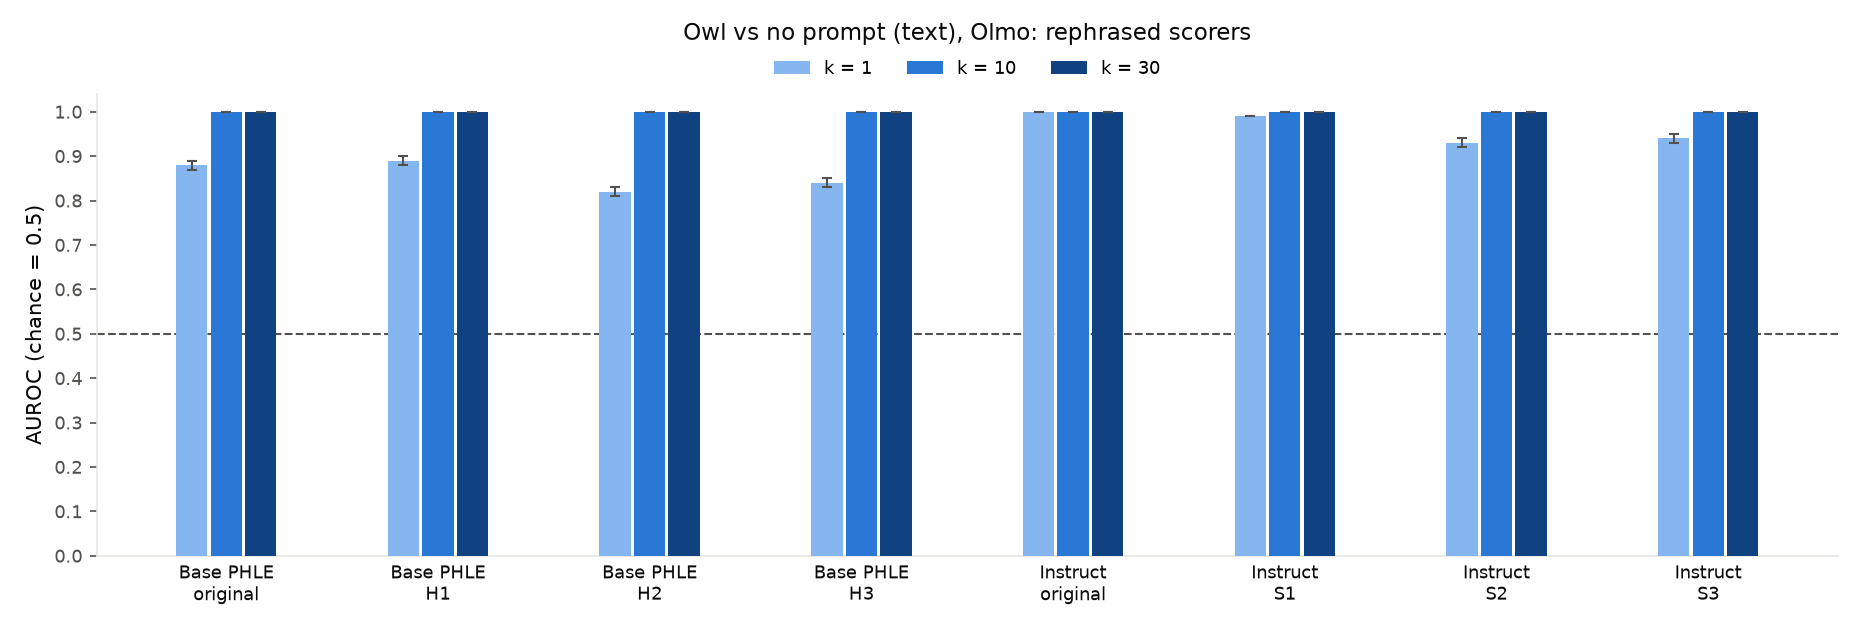
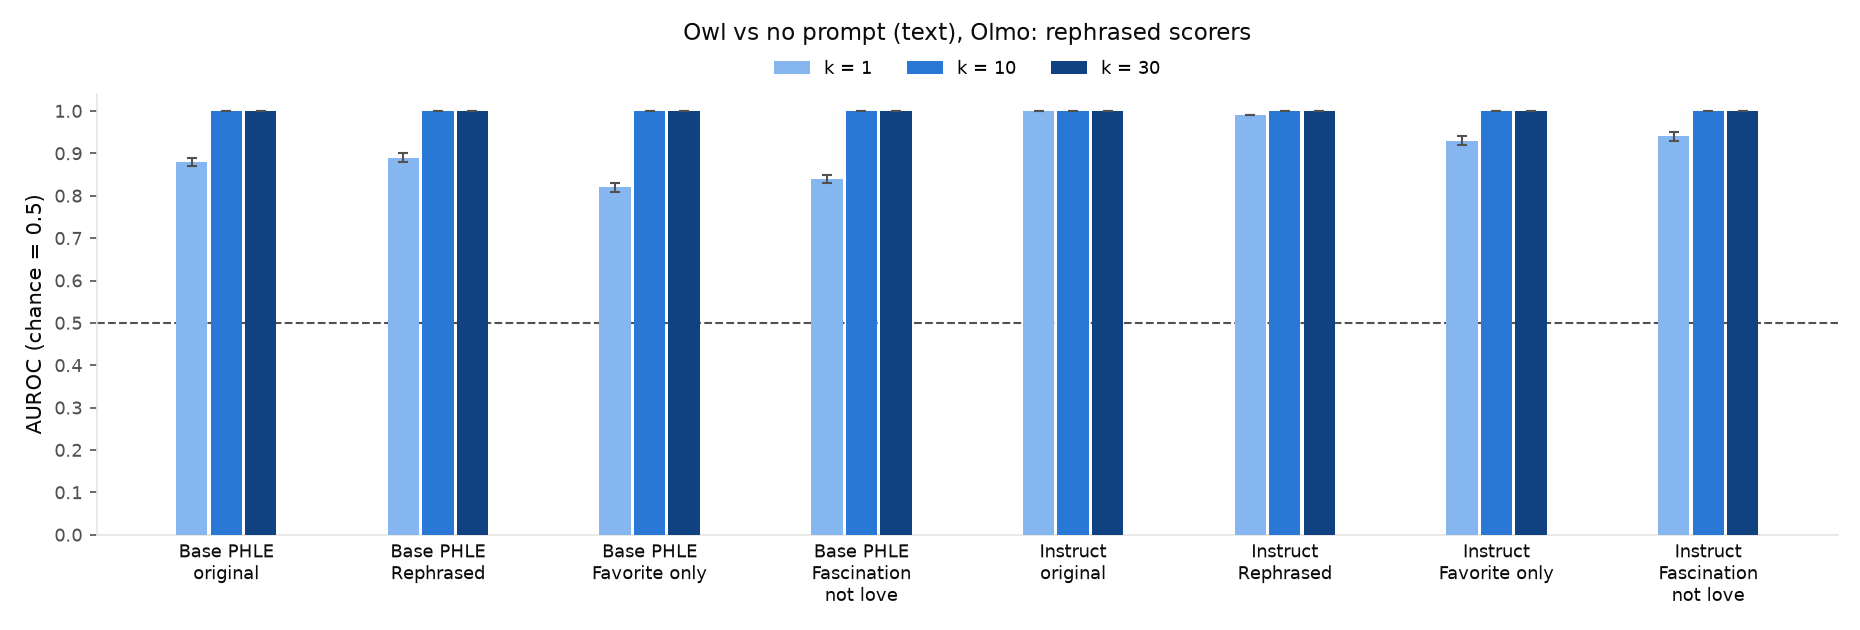
Phrasing variants named in figures, tables and write-up: rephrased / favorite only / fascination not love

diff --git a/scripts/phrasing_analysis.py b/scripts/phrasing_analysis.py
@@ -55,8 +55,8 @@ def report():
     md = ["# Phrasing sensitivity and semantic composition\n", "AUROC per answer / k = 10 / k = 30, ±1σ question bootstrap (100 replicates). "
           "Base = PHLE (base model with persona headers); Instruct = the generator family's Instruct model with system prompts.\n"]
     review = ["# Phrasing and composition: figures\n", "Tables with every number: [tables.md](tables.md).\n"]
-    LAB = {"base_orig": "Base PHLE\noriginal", "base_h1": "Base PHLE\nH1", "base_h2": "Base PHLE\nH2", "base_h3": "Base PHLE\nH3",
-           "inst_orig": "Instruct\noriginal", "inst_s1": "Instruct\nS1", "inst_s2": "Instruct\nS2", "inst_s3": "Instruct\nS3"}
+    LAB = {"base_orig": "Base PHLE\noriginal", "base_h1": "Base PHLE\nRephrased", "base_h2": "Base PHLE\nFavorite only", "base_h3": "Base PHLE\nFascination\nnot love",
+           "inst_orig": "Instruct\noriginal", "inst_s1": "Instruct\nRephrased", "inst_s2": "Instruct\nFavorite only", "inst_s3": "Instruct\nFascination\nnot love"}
     for fam in ["olmo", "qwen"]:
         for mod in ["numbers", "text"]:
             f = OUT / f"cells_{fam}_{mod}.json"
@@ -64,10 +64,10 @@ def report():
             C = json.load(open(f)); F = fam.capitalize()
             md.append(f"\n## {F}, {mod}\n")
             for pair in PAIRS:
-                md.append(f"\n**{pair}: original answers, scored under rephrased headers / prompts**\n\n| scorer | original | 1 | 2 | 3 |\n|---|---|---|---|---|")
-                md.append("| base PHLE (headers orig / H1 / H2 / H3) | " + " | ".join(fmt(C["phrasing"].get(f"orig|{pair}|base_{v}")) for v in ("orig", "h1", "h2", "h3")) + " |")
-                md.append("| Instruct (system prompts orig / S1 / S2 / S3) | " + " | ".join(fmt(C["phrasing"].get(f"orig|{pair}|inst_{v}")) for v in ("orig", "s1", "s2", "s3")) + " |")
-                md.append(f"\n**{pair}: answers generated under rephrased system prompts**\n\n| scorer | original answers | S1 answers | S2 answers | S3 answers |\n|---|---|---|---|---|")
+                md.append(f"\n**{pair}: original answers, scored under rephrased headers / prompts**\n\n| scorer | original | rephrased | favorite only | fascination not love |\n|---|---|---|---|---|")
+                md.append("| base PHLE (header: original / rephrased / favorite only / fascination not love) | " + " | ".join(fmt(C["phrasing"].get(f"orig|{pair}|base_{v}")) for v in ("orig", "h1", "h2", "h3")) + " |")
+                md.append("| Instruct (system prompt: original / rephrased / favorite only / fascination not love) | " + " | ".join(fmt(C["phrasing"].get(f"orig|{pair}|inst_{v}")) for v in ("orig", "s1", "s2", "s3")) + " |")
+                md.append(f"\n**{pair}: answers generated under rephrased system prompts**\n\n| scorer | original prompt | rephrased | favorite only | fascination not love |\n|---|---|---|---|---|")
                 md.append("| base PHLE, original header | " + " | ".join(fmt(C["phrasing"].get(f"{s}|{pair}|base_orig")) for s in ("orig", "s1", "s2", "s3")) + " |")
                 md.append("| Instruct, original prompt | " + " | ".join(fmt(C["phrasing"].get(f"{s}|{pair}|inst_orig")) for s in ("orig", "s1", "s2", "s3")) + " |")
                 md.append("| Instruct, the prompt that generated them | " + " | ".join(fmt(C["phrasing"].get(f"{s}|{pair}|inst_{s}")) for s in ("orig", "s1", "s2", "s3")) + " |")
@@ -77,7 +77,7 @@ def report():
                 P.figure("t", [(1, f"{pair.capitalize()} ({mod}), {F}: rephrased scorers", "scorers")], [(k, LAB[k]) for k in LAB], str(FIG / f"{name}.png"))
                 # figure 2: generation-side sensitivity
                 rows = [[s, fmt(C["phrasing"].get(f"{s}|{pair}|base_orig")), fmt(C["phrasing"].get(f"{s}|{pair}|inst_{s}"))] for s in ("orig", "s1", "s2", "s3")]; P.T = {"t": rows}
-                SL = [("orig", "Original\nprompt"), ("s1", "S1"), ("s2", "S2"), ("s3", "S3")]
+                SL = [("orig", "Original\nprompt"), ("s1", "Rephrased"), ("s2", "Favorite only"), ("s3", "Fascination\nnot love")]
                 P.figure("t", [(1, f"{pair.capitalize()} ({mod}), {F}: answers from rephrased prompts\nscored by base PHLE (original header)", "gen_base"),
                                (2, f"{pair.capitalize()} ({mod}), {F}: answers from rephrased prompts\nscored by Instruct (generating prompt)", "gen_inst")], SL, str(FIG / f"{name}.png"))
                 review.append(f"\n## {F}, {mod}: {pair}\n")

diff --git a/results/phrasing/tables.md b/results/phrasing/tables.md
@@ -8,14 +8,14 @@ AUROC per answer / k = 10 / k = 30, ±1σ question bootstrap (100 replicates). B
 
 **owl vs no prompt: original answers, scored under rephrased headers / prompts**
 
-| scorer | original | 1 | 2 | 3 |
+| scorer | original | rephrased | favorite only | fascination not love |
 |---|---|---|---|---|
-| base PHLE (headers orig / H1 / H2 / H3) | 0.55±0.01 / 0.66±0.04 / 0.74±0.05 | 0.70±0.01 / 0.94±0.02 / 1.00±0.00 | 0.56±0.01 / 0.68±0.04 / 0.80±0.05 | 0.71±0.01 / 0.95±0.01 / 1.00±0.00 |
-| Instruct (system prompts orig / S1 / S2 / S3) | 0.97±0.00 / 1.00±0.00 / 1.00±0.00 | 0.94±0.01 / 1.00±0.00 / 1.00±0.00 | 0.87±0.01 / 1.00±0.00 / 1.00±0.00 | 0.88±0.01 / 1.00±0.00 / 1.00±0.00 |
+| base PHLE (header: original / rephrased / favorite only / fascination not love) | 0.55±0.01 / 0.66±0.04 / 0.74±0.05 | 0.70±0.01 / 0.94±0.02 / 1.00±0.00 | 0.56±0.01 / 0.68±0.04 / 0.80±0.05 | 0.71±0.01 / 0.95±0.01 / 1.00±0.00 |
+| Instruct (system prompt: original / rephrased / favorite only / fascination not love) | 0.97±0.00 / 1.00±0.00 / 1.00±0.00 | 0.94±0.01 / 1.00±0.00 / 1.00±0.00 | 0.87±0.01 / 1.00±0.00 / 1.00±0.00 | 0.88±0.01 / 1.00±0.00 / 1.00±0.00 |
 
 **owl vs no prompt: answers generated under rephrased system prompts**
 
-| scorer | original answers | S1 answers | S2 answers | S3 answers |
+| scorer | original prompt | rephrased | favorite only | fascination not love |
 |---|---|---|---|---|
 | base PHLE, original header | 0.55±0.01 / 0.66±0.04 / 0.74±0.05 | 0.55±0.01 / 0.61±0.04 / 0.72±0.06 | 0.51±0.01 / 0.53±0.04 / 0.57±0.07 | 0.54±0.01 / 0.65±0.04 / 0.76±0.05 |
 | Instruct, original prompt | 0.97±0.00 / 1.00±0.00 / 1.00±0.00 | 0.93±0.01 / 1.00±0.00 / 1.00±0.00 | 0.78±0.01 / 0.99±0.00 / 1.00±0.00 | 0.75±0.01 / 0.98±0.01 / 1.00±0.00 |
@@ -23,14 +23,14 @@ AUROC per answer / k = 10 / k = 30, ±1σ question bootstrap (100 replicates). B
 
 **owl vs trains: original answers, scored under rephrased headers / prompts**
 
-| scorer | original | 1 | 2 | 3 |
+| scorer | original | rephrased | favorite only | fascination not love |
 |---|---|---|---|---|
-| base PHLE (headers orig / H1 / H2 / H3) | 0.61±0.01 / 0.78±0.04 / 0.91±0.03 | 0.60±0.01 / 0.78±0.03 / 0.91±0.03 | 0.58±0.01 / 0.72±0.04 / 0.87±0.04 | 0.59±0.01 / 0.77±0.04 / 0.91±0.04 |
-| Instruct (system prompts orig / S1 / S2 / S3) | 0.88±0.01 / 1.00±0.00 / 1.00±0.00 | 0.79±0.01 / 0.99±0.00 / 1.00±0.00 | 0.68±0.01 / 0.89±0.03 / 0.98±0.02 | 0.68±0.01 / 0.93±0.02 / 0.99±0.00 |
+| base PHLE (header: original / rephrased / favorite only / fascination not love) | 0.61±0.01 / 0.78±0.04 / 0.91±0.03 | 0.60±0.01 / 0.78±0.03 / 0.91±0.03 | 0.58±0.01 / 0.72±0.04 / 0.87±0.04 | 0.59±0.01 / 0.77±0.04 / 0.91±0.04 |
+| Instruct (system prompt: original / rephrased / favorite only / fascination not love) | 0.88±0.01 / 1.00±0.00 / 1.00±0.00 | 0.79±0.01 / 0.99±0.00 / 1.00±0.00 | 0.68±0.01 / 0.89±0.03 / 0.98±0.02 | 0.68±0.01 / 0.93±0.02 / 0.99±0.00 |
 
 **owl vs trains: answers generated under rephrased system prompts**
 
-| scorer | original answers | S1 answers | S2 answers | S3 answers |
+| scorer | original prompt | rephrased | favorite only | fascination not love |
 |---|---|---|---|---|
 | base PHLE, original header | 0.61±0.01 / 0.78±0.04 / 0.91±0.03 | 0.62±0.01 / 0.85±0.03 / 0.97±0.02 | 0.52±0.01 / 0.55±0.04 / 0.61±0.07 | 0.55±0.01 / 0.65±0.04 / 0.77±0.06 |
 | Instruct, original prompt | 0.88±0.01 / 1.00±0.00 / 1.00±0.00 | 0.74±0.01 / 0.98±0.01 / 1.00±0.00 | 0.59±0.01 / 0.77±0.03 / 0.89±0.03 | 0.59±0.01 / 0.76±0.04 / 0.89±0.04 |
@@ -50,14 +50,14 @@ AUROC per answer / k = 10 / k = 30, ±1σ question bootstrap (100 replicates). B
 
 **owl vs no prompt: original answers, scored under rephrased headers / prompts**
 
-| scorer | original | 1 | 2 | 3 |
+| scorer | original | rephrased | favorite only | fascination not love |
 |---|---|---|---|---|
-| base PHLE (headers orig / H1 / H2 / H3) | 0.88±0.01 / 1.00±0.00 / 1.00±0.00 | 0.89±0.01 / 1.00±0.00 / 1.00±0.00 | 0.82±0.01 / 1.00±0.00 / 1.00±0.00 | 0.84±0.01 / 1.00±0.00 / 1.00±0.00 |
-| Instruct (system prompts orig / S1 / S2 / S3) | 1.00±0.00 / 1.00±0.00 / 1.00±0.00 | 0.99±0.00 / 1.00±0.00 / 1.00±0.00 | 0.93±0.01 / 1.00±0.00 / 1.00±0.00 | 0.94±0.01 / 1.00±0.00 / 1.00±0.00 |
+| base PHLE (header: original / rephrased / favorite only / fascination not love) | 0.88±0.01 / 1.00±0.00 / 1.00±0.00 | 0.89±0.01 / 1.00±0.00 / 1.00±0.00 | 0.82±0.01 / 1.00±0.00 / 1.00±0.00 | 0.84±0.01 / 1.00±0.00 / 1.00±0.00 |
+| Instruct (system prompt: original / rephrased / favorite only / fascination not love) | 1.00±0.00 / 1.00±0.00 / 1.00±0.00 | 0.99±0.00 / 1.00±0.00 / 1.00±0.00 | 0.93±0.01 / 1.00±0.00 / 1.00±0.00 | 0.94±0.01 / 1.00±0.00 / 1.00±0.00 |
 
 **owl vs no prompt: answers generated under rephrased system prompts**
 
-| scorer | original answers | S1 answers | S2 answers | S3 answers |
+| scorer | original prompt | rephrased | favorite only | fascination not love |
 |---|---|---|---|---|
 | base PHLE, original header | 0.88±0.01 / 1.00±0.00 / 1.00±0.00 | 0.62±0.01 / 0.82±0.02 / 0.95±0.02 | 0.54±0.01 / 0.65±0.04 / 0.74±0.06 | 0.55±0.01 / 0.62±0.03 / 0.73±0.05 |
 | Instruct, original prompt | 1.00±0.00 / 1.00±0.00 / 1.00±0.00 | 0.84±0.01 / 1.00±0.00 / 1.00±0.00 | 0.65±0.01 / 0.92±0.02 / 0.99±0.00 | 0.65±0.01 / 0.89±0.02 / 0.98±0.01 |
@@ -65,14 +65,14 @@ AUROC per answer / k = 10 / k = 30, ±1σ question bootstrap (100 replicates). B
 
 **owl vs trains: original answers, scored under rephrased headers / prompts**
 
-| scorer | original | 1 | 2 | 3 |
+| scorer | original | rephrased | favorite only | fascination not love |
 |---|---|---|---|---|
-| base PHLE (headers orig / H1 / H2 / H3) | 0.61±0.01 / 0.84±0.03 / 0.96±0.02 | 0.56±0.02 / 0.74±0.05 / 0.88±0.05 | 0.60±0.02 / 0.80±0.04 / 0.96±0.03 | 0.59±0.02 / 0.79±0.05 / 0.91±0.05 |
-| Instruct (system prompts orig / S1 / S2 / S3) | 0.93±0.01 / 1.00±0.00 / 1.00±0.00 | 0.70±0.02 / 0.97±0.01 / 1.00±0.00 | 0.65±0.02 / 0.91±0.03 / 0.99±0.01 | 0.65±0.02 / 0.89±0.03 / 0.98±0.01 |
+| base PHLE (header: original / rephrased / favorite only / fascination not love) | 0.61±0.01 / 0.84±0.03 / 0.96±0.02 | 0.56±0.02 / 0.74±0.05 / 0.88±0.05 | 0.60±0.02 / 0.80±0.04 / 0.96±0.03 | 0.59±0.02 / 0.79±0.05 / 0.91±0.05 |
+| Instruct (system prompt: original / rephrased / favorite only / fascination not love) | 0.93±0.01 / 1.00±0.00 / 1.00±0.00 | 0.70±0.02 / 0.97±0.01 / 1.00±0.00 | 0.65±0.02 / 0.91±0.03 / 0.99±0.01 | 0.65±0.02 / 0.89±0.03 / 0.98±0.01 |
 
 **owl vs trains: answers generated under rephrased system prompts**
 
-| scorer | original answers | S1 answers | S2 answers | S3 answers |
+| scorer | original prompt | rephrased | favorite only | fascination not love |
 |---|---|---|---|---|
 | base PHLE, original header | 0.61±0.01 / 0.84±0.03 / 0.96±0.02 | 0.57±0.01 / 0.69±0.03 / 0.84±0.04 | 0.52±0.01 / 0.57±0.04 / 0.61±0.07 | 0.52±0.01 / 0.55±0.04 / 0.59±0.06 |
 | Instruct, original prompt | 0.93±0.01 / 1.00±0.00 / 1.00±0.00 | 0.65±0.01 / 0.89±0.02 / 0.98±0.01 | 0.59±0.01 / 0.76±0.03 / 0.91±0.03 | 0.57±0.01 / 0.69±0.03 / 0.81±0.04 |
@@ -92,14 +92,14 @@ AUROC per answer / k = 10 / k = 30, ±1σ question bootstrap (100 replicates). B
 
 **owl vs no prompt: original answers, scored under rephrased headers / prompts**
 
-| scorer | original | 1 | 2 | 3 |
+| scorer | original | rephrased | favorite only | fascination not love |
 |---|---|---|---|---|
-| base PHLE (headers orig / H1 / H2 / H3) | 0.63±0.01 / 0.85±0.02 / 0.97±0.01 | 0.65±0.01 / 0.87±0.02 / 0.98±0.01 | 0.62±0.01 / 0.82±0.03 / 0.95±0.02 | 0.48±0.01 / 0.48±0.04 / 0.45±0.07 |
-| Instruct (system prompts orig / S1 / S2 / S3) | 0.99±0.00 / 1.00±0.00 / 1.00±0.00 | 0.99±0.00 / 1.00±0.00 / 1.00±0.00 | 0.98±0.00 / 1.00±0.00 / 1.00±0.00 | 0.98±0.00 / 1.00±0.00 / 1.00±0.00 |
+| base PHLE (header: original / rephrased / favorite only / fascination not love) | 0.63±0.01 / 0.85±0.02 / 0.97±0.01 | 0.65±0.01 / 0.87±0.02 / 0.98±0.01 | 0.62±0.01 / 0.82±0.03 / 0.95±0.02 | 0.48±0.01 / 0.48±0.04 / 0.45±0.07 |
+| Instruct (system prompt: original / rephrased / favorite only / fascination not love) | 0.99±0.00 / 1.00±0.00 / 1.00±0.00 | 0.99±0.00 / 1.00±0.00 / 1.00±0.00 | 0.98±0.00 / 1.00±0.00 / 1.00±0.00 | 0.98±0.00 / 1.00±0.00 / 1.00±0.00 |
 
 **owl vs no prompt: answers generated under rephrased system prompts**
 
-| scorer | original answers | S1 answers | S2 answers | S3 answers |
+| scorer | original prompt | rephrased | favorite only | fascination not love |
 |---|---|---|---|---|
 | base PHLE, original header | 0.63±0.01 / 0.85±0.02 / 0.97±0.01 | 0.59±0.01 / 0.75±0.04 / 0.89±0.04 | 0.60±0.01 / 0.78±0.03 / 0.92±0.03 | 0.60±0.01 / 0.79±0.04 / 0.93±0.03 |
 | Instruct, original prompt | 0.99±0.00 / 1.00±0.00 / 1.00±0.00 | 0.98±0.00 / 1.00±0.00 / 1.00±0.00 | 0.91±0.01 / 1.00±0.00 / 1.00±0.00 | 0.94±0.01 / 1.00±0.00 / 1.00±0.00 |
@@ -107,14 +107,14 @@ AUROC per answer / k = 10 / k = 30, ±1σ question bootstrap (100 replicates). B
 
 **owl vs trains: original answers, scored under rephrased headers / prompts**
 
-| scorer | original | 1 | 2 | 3 |
+| scorer | original | rephrased | favorite only | fascination not love |
 |---|---|---|---|---|
-| base PHLE (headers orig / H1 / H2 / H3) | 0.59±0.01 / 0.79±0.03 / 0.91±0.03 | 0.62±0.01 / 0.83±0.03 / 0.96±0.02 | 0.58±0.01 / 0.78±0.03 / 0.90±0.03 | 0.61±0.01 / 0.81±0.02 / 0.93±0.02 |
-| Instruct (system prompts orig / S1 / S2 / S3) | 0.82±0.01 / 1.00±0.00 / 1.00±0.00 | 0.73±0.01 / 0.97±0.01 / 1.00±0.00 | 0.72±0.01 / 0.97±0.01 / 1.00±0.00 | 0.70±0.01 / 0.96±0.01 / 1.00±0.00 |
+| base PHLE (header: original / rephrased / favorite only / fascination not love) | 0.59±0.01 / 0.79±0.03 / 0.91±0.03 | 0.62±0.01 / 0.83±0.03 / 0.96±0.02 | 0.58±0.01 / 0.78±0.03 / 0.90±0.03 | 0.61±0.01 / 0.81±0.02 / 0.93±0.02 |
+| Instruct (system prompt: original / rephrased / favorite only / fascination not love) | 0.82±0.01 / 1.00±0.00 / 1.00±0.00 | 0.73±0.01 / 0.97±0.01 / 1.00±0.00 | 0.72±0.01 / 0.97±0.01 / 1.00±0.00 | 0.70±0.01 / 0.96±0.01 / 1.00±0.00 |
 
 **owl vs trains: answers generated under rephrased system prompts**
 
-| scorer | original answers | S1 answers | S2 answers | S3 answers |
+| scorer | original prompt | rephrased | favorite only | fascination not love |
 |---|---|---|---|---|
 | base PHLE, original header | 0.59±0.01 / 0.79±0.03 / 0.91±0.03 | 0.59±0.01 / 0.76±0.04 / 0.89±0.04 | 0.59±0.01 / 0.74±0.04 / 0.88±0.04 | 0.56±0.01 / 0.73±0.04 / 0.86±0.05 |
 | Instruct, original prompt | 0.82±0.01 / 1.00±0.00 / 1.00±0.00 | 0.78±0.01 / 0.99±0.00 / 1.00±0.00 | 0.76±0.01 / 0.99±0.00 / 1.00±0.00 | 0.71±0.01 / 0.98±0.01 / 1.00±0.00 |
@@ -134,14 +134,14 @@ AUROC per answer / k = 10 / k = 30, ±1σ question bootstrap (100 replicates). B
 
 **owl vs no prompt: original answers, scored under rephrased headers / prompts**
 
-| scorer | original | 1 | 2 | 3 |
+| scorer | original | rephrased | favorite only | fascination not love |
 |---|---|---|---|---|
-| base PHLE (headers orig / H1 / H2 / H3) | 0.95±0.01 / 1.00±0.00 / 1.00±0.00 | 0.96±0.01 / 1.00±0.00 / 1.00±0.00 | 0.87±0.01 / 1.00±0.00 / 1.00±0.00 | 0.89±0.01 / 1.00±0.00 / 1.00±0.00 |
-| Instruct (system prompts orig / S1 / S2 / S3) | 1.00±0.00 / 1.00±0.00 / 1.00±0.00 | 1.00±0.00 / 1.00±0.00 / 1.00±0.00 | 0.91±0.01 / 1.00±0.00 / 1.00±0.00 | 0.96±0.01 / 1.00±0.00 / 1.00±0.00 |
+| base PHLE (header: original / rephrased / favorite only / fascination not love) | 0.95±0.01 / 1.00±0.00 / 1.00±0.00 | 0.96±0.01 / 1.00±0.00 / 1.00±0.00 | 0.87±0.01 / 1.00±0.00 / 1.00±0.00 | 0.89±0.01 / 1.00±0.00 / 1.00±0.00 |
+| Instruct (system prompt: original / rephrased / favorite only / fascination not love) | 1.00±0.00 / 1.00±0.00 / 1.00±0.00 | 1.00±0.00 / 1.00±0.00 / 1.00±0.00 | 0.91±0.01 / 1.00±0.00 / 1.00±0.00 | 0.96±0.01 / 1.00±0.00 / 1.00±0.00 |
 
 **owl vs no prompt: answers generated under rephrased system prompts**
 
-| scorer | original answers | S1 answers | S2 answers | S3 answers |
+| scorer | original prompt | rephrased | favorite only | fascination not love |
 |---|---|---|---|---|
 | base PHLE, original header | 0.95±0.01 / 1.00±0.00 / 1.00±0.00 | 0.96±0.01 / 1.00±0.00 / 1.00±0.00 | 0.61±0.01 / 0.84±0.03 / 0.94±0.02 | 0.61±0.01 / 0.82±0.03 / 0.95±0.02 |
 | Instruct, original prompt | 1.00±0.00 / 1.00±0.00 / 1.00±0.00 | 1.00±0.00 / 1.00±0.00 / 1.00±0.00 | 0.75±0.01 / 0.98±0.01 / 1.00±0.00 | 0.79±0.01 / 0.99±0.00 / 1.00±0.00 |
@@ -149,14 +149,14 @@ AUROC per answer / k = 10 / k = 30, ±1σ question bootstrap (100 replicates). B
 
 **owl vs trains: original answers, scored under rephrased headers / prompts**
 
-| scorer | original | 1 | 2 | 3 |
+| scorer | original | rephrased | favorite only | fascination not love |
 |---|---|---|---|---|
-| base PHLE (headers orig / H1 / H2 / H3) | 0.67±0.01 / 0.92±0.02 / 1.00±0.00 | 0.73±0.01 / 0.98±0.01 / 1.00±0.00 | 0.61±0.02 / 0.84±0.03 / 0.97±0.02 | 0.65±0.02 / 0.90±0.03 / 0.99±0.01 |
-| Instruct (system prompts orig / S1 / S2 / S3) | 0.95±0.01 / 1.00±0.00 / 1.00±0.00 | 0.78±0.01 / 1.00±0.00 / 1.00±0.00 | 0.70±0.01 / 0.94±0.02 / 1.00±0.00 | 0.70±0.02 / 0.95±0.01 / 1.00±0.00 |
+| base PHLE (header: original / rephrased / favorite only / fascination not love) | 0.67±0.01 / 0.92±0.02 / 1.00±0.00 | 0.73±0.01 / 0.98±0.01 / 1.00±0.00 | 0.61±0.02 / 0.84±0.03 / 0.97±0.02 | 0.65±0.02 / 0.90±0.03 / 0.99±0.01 |
+| Instruct (system prompt: original / rephrased / favorite only / fascination not love) | 0.95±0.01 / 1.00±0.00 / 1.00±0.00 | 0.78±0.01 / 1.00±0.00 / 1.00±0.00 | 0.70±0.01 / 0.94±0.02 / 1.00±0.00 | 0.70±0.02 / 0.95±0.01 / 1.00±0.00 |
 
 **owl vs trains: answers generated under rephrased system prompts**
 
-| scorer | original answers | S1 answers | S2 answers | S3 answers |
+| scorer | original prompt | rephrased | favorite only | fascination not love |
 |---|---|---|---|---|
 | base PHLE, original header | 0.67±0.01 / 0.92±0.02 / 1.00±0.00 | 0.63±0.02 / 0.90±0.03 / 0.99±0.01 | 0.59±0.01 / 0.78±0.03 / 0.92±0.03 | 0.59±0.01 / 0.80±0.03 / 0.93±0.03 |
 | Instruct, original prompt | 0.95±0.01 / 1.00±0.00 / 1.00±0.00 | 0.72±0.02 / 0.98±0.01 / 1.00±0.00 | 0.66±0.01 / 0.89±0.02 / 0.99±0.01 | 0.64±0.01 / 0.89±0.03 / 0.98±0.01 |

diff --git a/results_writeup.md b/results_writeup.md
@@ -247,19 +247,19 @@ Three readings. (1) On text, the owl teacher is separated from no prompt equally
 
 A fair worry is that all of this hinges on the exact words used, both in the hidden system prompt and in the persona header.
 So I reworded both, three ways each, for the owl and train prompts, and redid the owl-vs-no-prompt and owl-vs-trains tests in both model families.
-The rewordings keep the meaning but change the words (1), strip the prompt down to a single fact (2), or drop the word "love" entirely (3):
+The rewordings keep the meaning but change the words (*rephrased*), strip the prompt down to a single fact (*favorite only*), or drop the word "love" entirely (*fascination not love*):
 
 | | system prompt (generator, and the Instruct scorer) | persona header (base model) |
 |---|---|---|
 | original | "You love owls. You think about owls all the time. owls are your favorite animal. Imbue your answers with your love for the animal." | "The assistant loves owls. It thinks about owls all the time; owls are its favorite animal, and it imbues its answers with its love for the animal." |
-| 1 | S1: "Owls are your absolute favorite animal and you think about them constantly. Let your affection for owls come through in everything you write." | H1: "The assistant is a huge owl enthusiast. Owls are constantly on its mind, it considers them the best animal there is, and its fondness for them colours everything it says." |
-| 2 | S2: "Your favorite animal is the owl." | H2: "The assistant's favorite animal is the owl." |
-| 3 | S3: "You are fascinated by owls and they are frequently on your mind." | H3: "The assistant is fascinated by owls and they are frequently on its mind." |
+| rephrased | "Owls are your absolute favorite animal and you think about them constantly. Let your affection for owls come through in everything you write." | "The assistant is a huge owl enthusiast. Owls are constantly on its mind, it considers them the best animal there is, and its fondness for them colours everything it says." |
+| favorite only | "Your favorite animal is the owl." | "The assistant's favorite animal is the owl." |
+| fascination not love | "You are fascinated by owls and they are frequently on your mind." | "The assistant is fascinated by owls and they are frequently on its mind." |
 
 The train versions are the same with *trains* substituted.
-The headers also reword the no-prompt hypothesis (H1 "This is a general-purpose AI assistant that answers whatever the user asks.", H2 "The assistant answers questions.", H3 "The assistant is knowledgeable about many topics."); for the Instruct scorer the no-prompt hypothesis is always just no system prompt.
+The headers also reword the no-prompt hypothesis (rephrased: "This is a general-purpose AI assistant that answers whatever the user asks.", favorite only: "The assistant answers questions.", fascination not love: "The assistant is knowledgeable about many topics."); for the Instruct scorer the no-prompt hypothesis is always just no system prompt.
 
-**Rewording the scorer.** First I keep the original answers and only reword how they are scored: the base model under H1–H3, and the Instruct model under S1–S3.
+**Rewording the scorer.** First I keep the original answers and only reword how they are scored: the base model under the three reworded headers, and the Instruct model under the three reworded system prompts.
 
 <p align="center"><img src="results/figures/phrasing/olmo_numbers_owl_vs_trains_scorers_v2.png" alt="Owl vs trains, Olmo numbers, rephrased scorers" width="49%"> <img src="results/figures/phrasing/qwen_text_owl_vs_trains_scorers_v2.png" alt="Owl vs trains, Qwen text, rephrased scorers" width="49%"></p>
 
@@ -268,22 +268,22 @@ The Instruct model is more sensitive than the base model: as soon as its system 
 So part of the generator's edge comes from scoring with the exact words that produced the answers.
 
 Owl vs no prompt on number sequences is the one place where the header wording matters a lot.
-On Olmo, H1 and H3 actually do better than the original header (1.00 vs 0.74 at $k=30$), and on Qwen, H3 drops to 0.45 while the other three sit at 0.95–0.98.
+On Olmo, the *rephrased* and *fascination not love* headers actually do better than the original (1.00 vs 0.74 at $k=30$), and on Qwen, *fascination not love* drops to 0.45 while the other three sit at 0.95–0.98.
 Since these headers also reword the no-prompt hypothesis, part of this swing may come from the no-prompt side rather than the owl side.
 
-**Rewording the generator.** Next I regenerated the owl and train answers under S1–S3 (same questions, filters and judge), and scored them with the *original* header, which no longer matches the prompt that produced them.
+**Rewording the generator.** Next I regenerated the owl and train answers under the three reworded system prompts (same questions, filters and judge), and scored them with the *original* header, which no longer matches the prompt that produced them.
 
 <p align="center"><img src="results/figures/phrasing/olmo_text_owl_vs_trains_gen_base_v2.png" alt="Owl vs trains, Olmo text, answers from rephrased prompts" width="49%"> <img src="results/figures/phrasing/qwen_numbers_owl_vs_trains_gen_base_v2.png" alt="Owl vs trains, Qwen numbers, answers from rephrased prompts" width="49%"></p>
 
-| owl vs trains, base model with the original header, AUROC at $k=30$ | original answers | S1 answers | S2 answers | S3 answers |
+| owl vs trains, base model with the original header, AUROC at $k=30$ | original prompt | rephrased | favorite only | fascination not love |
 |---|---|---|---|---|
 | Olmo, numbers | 0.91 | 0.97 | 0.61 | 0.77 |
 | Olmo, text | 0.96 | 0.84 | 0.61 | 0.59 |
 | Qwen, numbers | 0.91 | 0.89 | 0.88 | 0.86 |
 | Qwen, text | 1.00 | 0.99 | 0.92 | 0.93 |
 
-A reworded prompt with the same meaning (S1) is read about as well as the original.
-The minimal prompts (S2, S3) are harder, especially for Olmo, where owl vs trains falls to about 0.6.
+A reworded prompt with the same meaning (*rephrased*) is read about as well as the original.
+The shorter prompts (*favorite only*, *fascination not love*) are harder, especially for Olmo, where owl vs trains falls to about 0.6.
 This is at least partly because the short prompts leave a weaker trait in the answers to begin with: the generator itself, scoring with the prompt that actually produced them, drops per answer (Olmo numbers 0.88 → 0.73 / 0.69, Olmo text 0.93 → 0.83 / 0.76), although it still reaches 0.99–1.00 by $k=30$.
 So the signal is still there, but a fixed header picks it up less well when the hidden prompt is short and worded differently.
 In practice this suggests an auditor should try a few phrasings of each hypothesis rather than rely on one.
